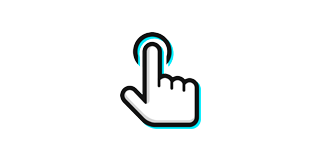
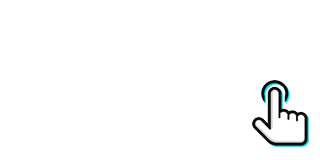
adding informateconeve pending image

Changed region(s): [[0.375, 0.1875, 0.625, 0.8125], [0.7812, 0.5, 0.9688, 0.9375]]

diff --git a/components/Projects/index.tsx b/components/Projects/index.tsx
@@ -1,4 +1,5 @@
 import Cryptonotify from "./Cryptonotify";
+import InformateConEve from "./InformateConEve";
 import ProjectCard from "./ProjectCard";
 export default function Projects() {
   const projects = [
@@ -26,6 +27,31 @@ export default function Projects() {
         },
       ],
       children: <Cryptonotify />,
+    },
+    {
+      title: "Infórmate con Eve",
+      description:
+        "Infórmate con Eve es un blog de uso personal. Fue desarrollado tratando de seguir las buenas prácticas de SEO ademas de ser un blog rápido y accesible. También es una PWA, por lo que se puede instalar en cualquier dispositivo.",
+      href: "https://www.informateconeve.com.ar/",
+      stack: [
+        {
+          name: "Astro",
+          properties: "bg-orange-400 text-orange-900",
+        },
+        {
+          name: "Typescript",
+          properties: "bg-blue-400 text-blue-900",
+        },
+        {
+          name: "TailwindCSS",
+          properties: "bg-cyan-400 text-cyan-900",
+        },
+        {
+          name: "TinaCMS",
+          properties: "bg-rose-400 text-rose-900",
+        },
+      ],
+      children: <InformateConEve />,
     },
   ];
   return (

diff --git a/components/Hero/index.tsx b/components/Hero/index.tsx
@@ -2,7 +2,7 @@ import { FaGithub, FaLinkedinIn, FaTwitter } from "react-icons/fa";
 import Image from "next/image";
 export default function Hero() {
   return (
-    <div className="mx-auto max-w-screen-lg px-3 py-6">
+    <div className="mx-auto max-w-screen-lg px-3">
       <div className="flex flex-col items-center md:flex-row md:justify-between md:gap-x-24">
         <div>
           <h1 className="text-3xl font-bold">

diff --git a/app/globals.css b/app/globals.css
@@ -341,8 +341,8 @@ button:hover {
   transform: translateY(-50%);
 }
 .my-atropos {
-  width: 400px;
-  height: 225px;
+  width: 330px;
+  height: 186px;
   border-radius: 10px;
   border: 1px solid #66ccff;
   box-shadow: 0 0 10px #66ccff;
